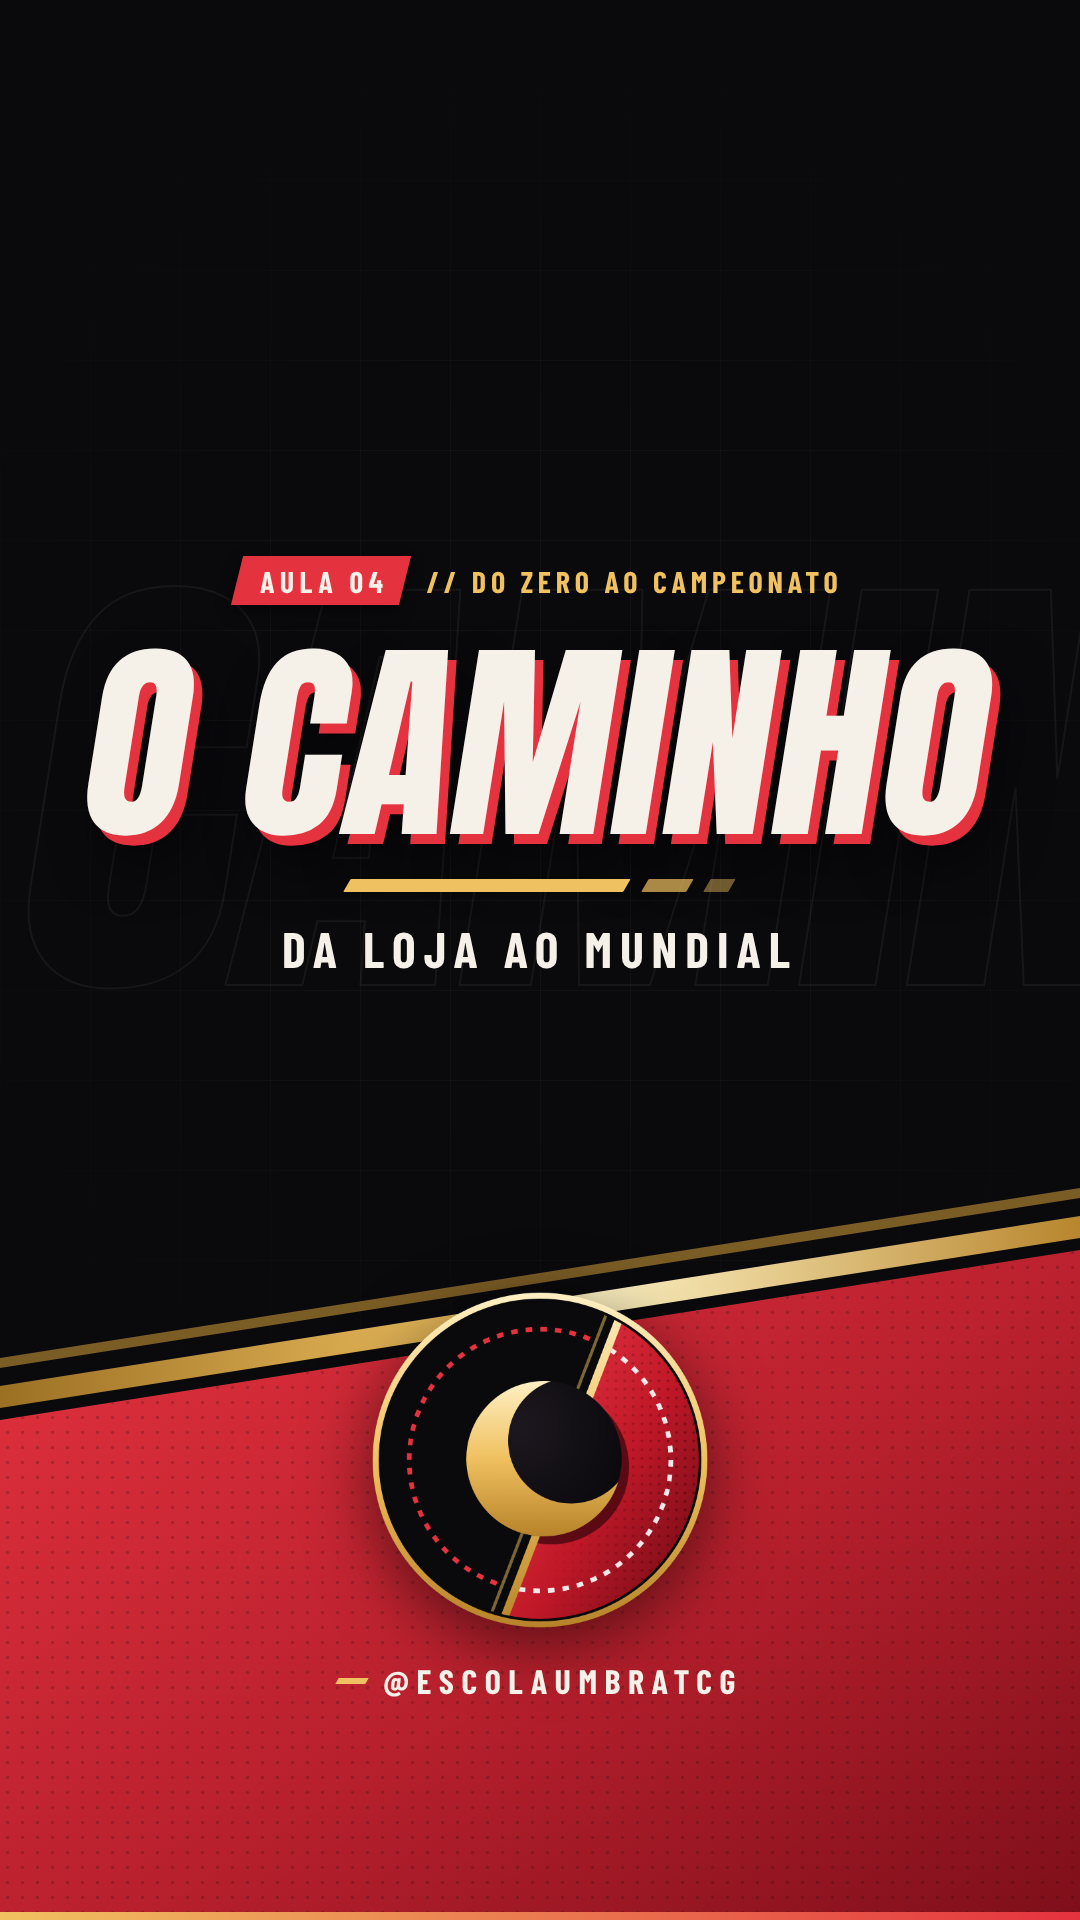
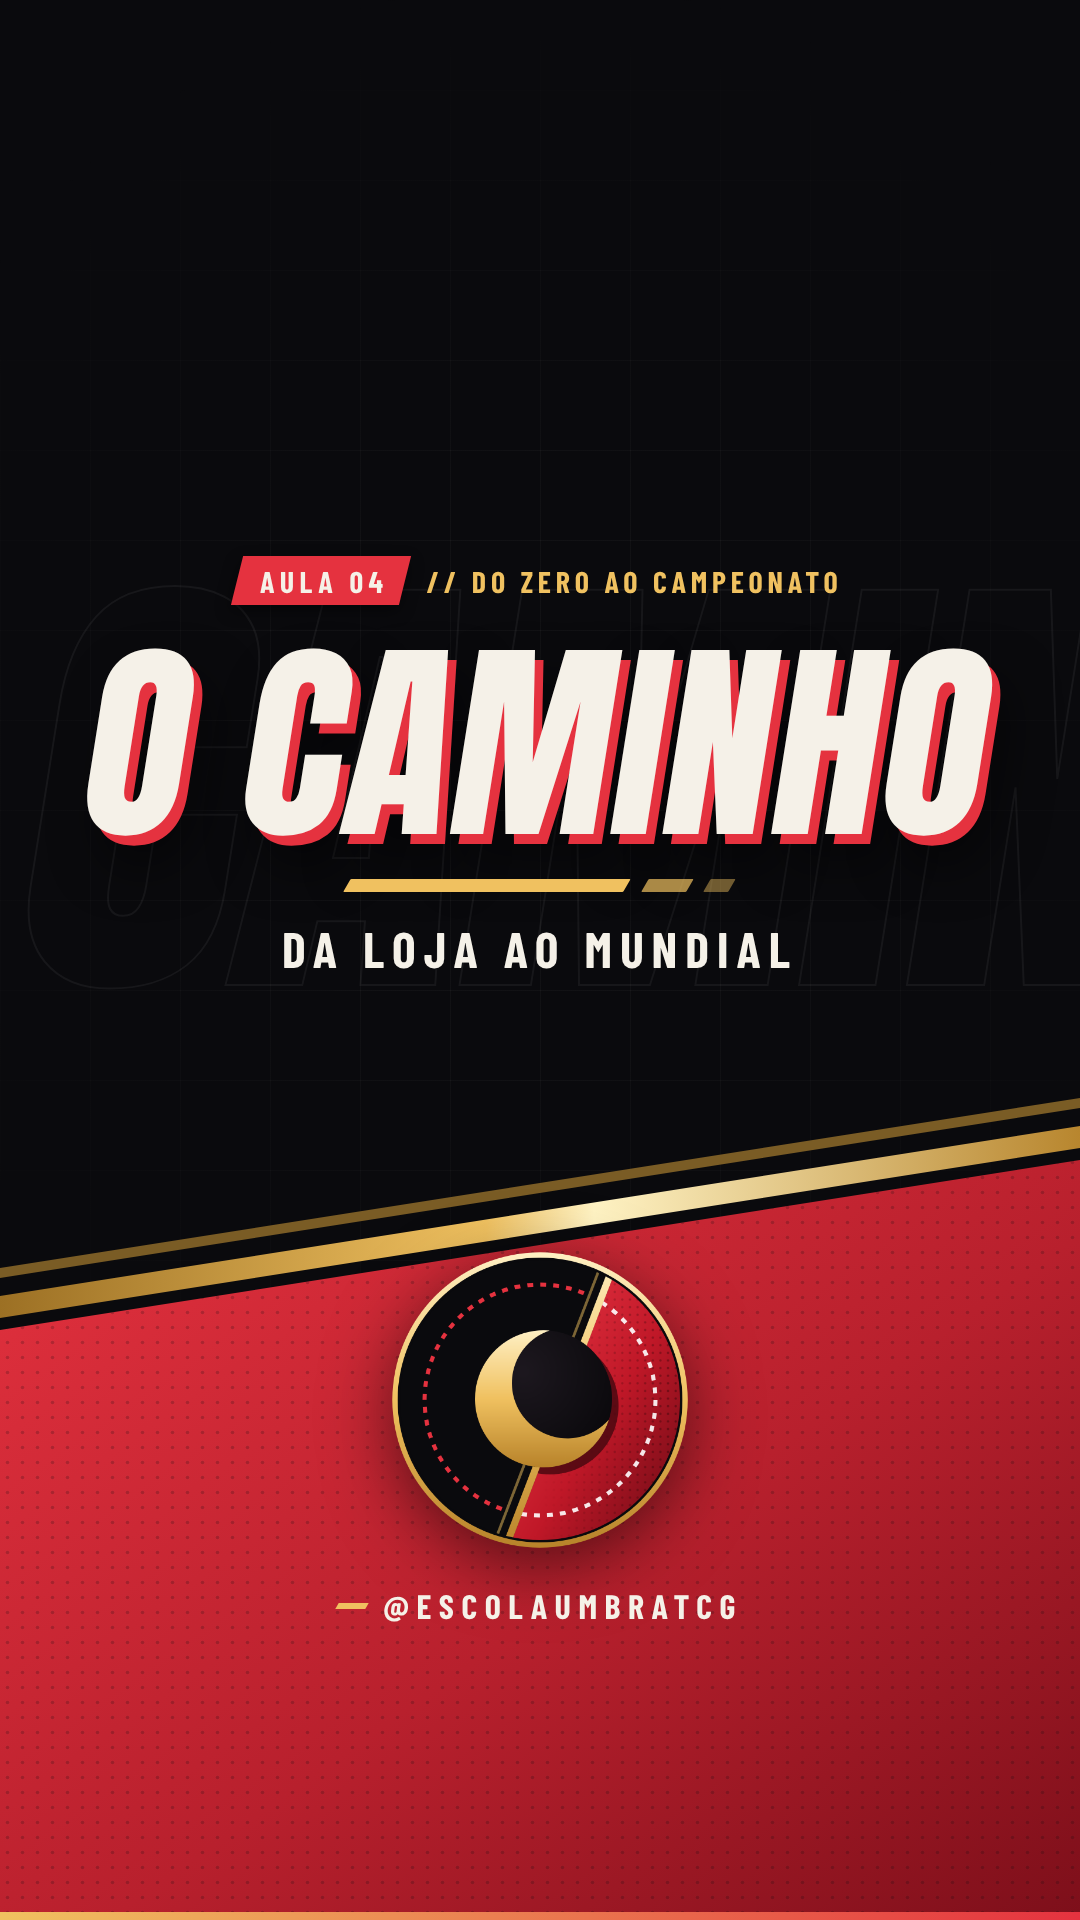
Ajusta a capa sem cartas para o @ não sair do recorte 3:4 do perfil
Claude-Session: https://claude.ai/code/session_015vZJUuXZYAruRbDp7M4PZW

Changed region(s): [[0.0, 0.5625, 1.0, 0.9062], [0.6417, 0.875, 0.6722, 0.9062], [0.3667, 0.875, 0.3972, 0.9062]]

diff --git a/escola-umbra/src/Capa.tsx b/escola-umbra/src/Capa.tsx
@@ -15,8 +15,8 @@ export const Capa: React.FC<PropsAula> = ({roteiro, cartas}) => {
   const temCartas = refs.length > 0;
   const larguraCarta = 250;
   // borda de cima do painel vermelho: sobe da esquerda para a direita
-  const yEsq = temCartas ? 1250 : 1420;
-  const yDir = temCartas ? 1080 : 1250;
+  const yEsq = temCartas ? 1250 : 1330;
+  const yDir = temCartas ? 1080 : 1160;
   const numero = `AULA ${String(roteiro.numero).padStart(2, '0')}`;
   const fantasma = roteiro.titulo_capa.split('\n')[0].toLocaleUpperCase('pt-BR');
 
@@ -119,7 +119,7 @@ export const Capa: React.FC<PropsAula> = ({roteiro, cartas}) => {
       {!temCartas ? (
         <Img
           src={staticFile('logo.png')}
-          style={{position: 'absolute', left: L / 2 - 170, top: 1290, width: 340, height: 340, objectFit: 'contain', filter: 'drop-shadow(0 16px 34px rgba(0,0,0,0.55))'}}
+          style={{position: 'absolute', left: L / 2 - 150, top: 1250, width: 300, height: 300, objectFit: 'contain', filter: 'drop-shadow(0 16px 34px rgba(0,0,0,0.55))'}}
         />
       ) : null}
 
@@ -148,7 +148,7 @@ export const Capa: React.FC<PropsAula> = ({roteiro, cartas}) => {
           position: 'absolute',
           left: 0,
           width: L,
-          top: temCartas ? 1585 : 1660,
+          top: 1585,
           display: 'flex',
           justifyContent: 'center',
           alignItems: 'center',
